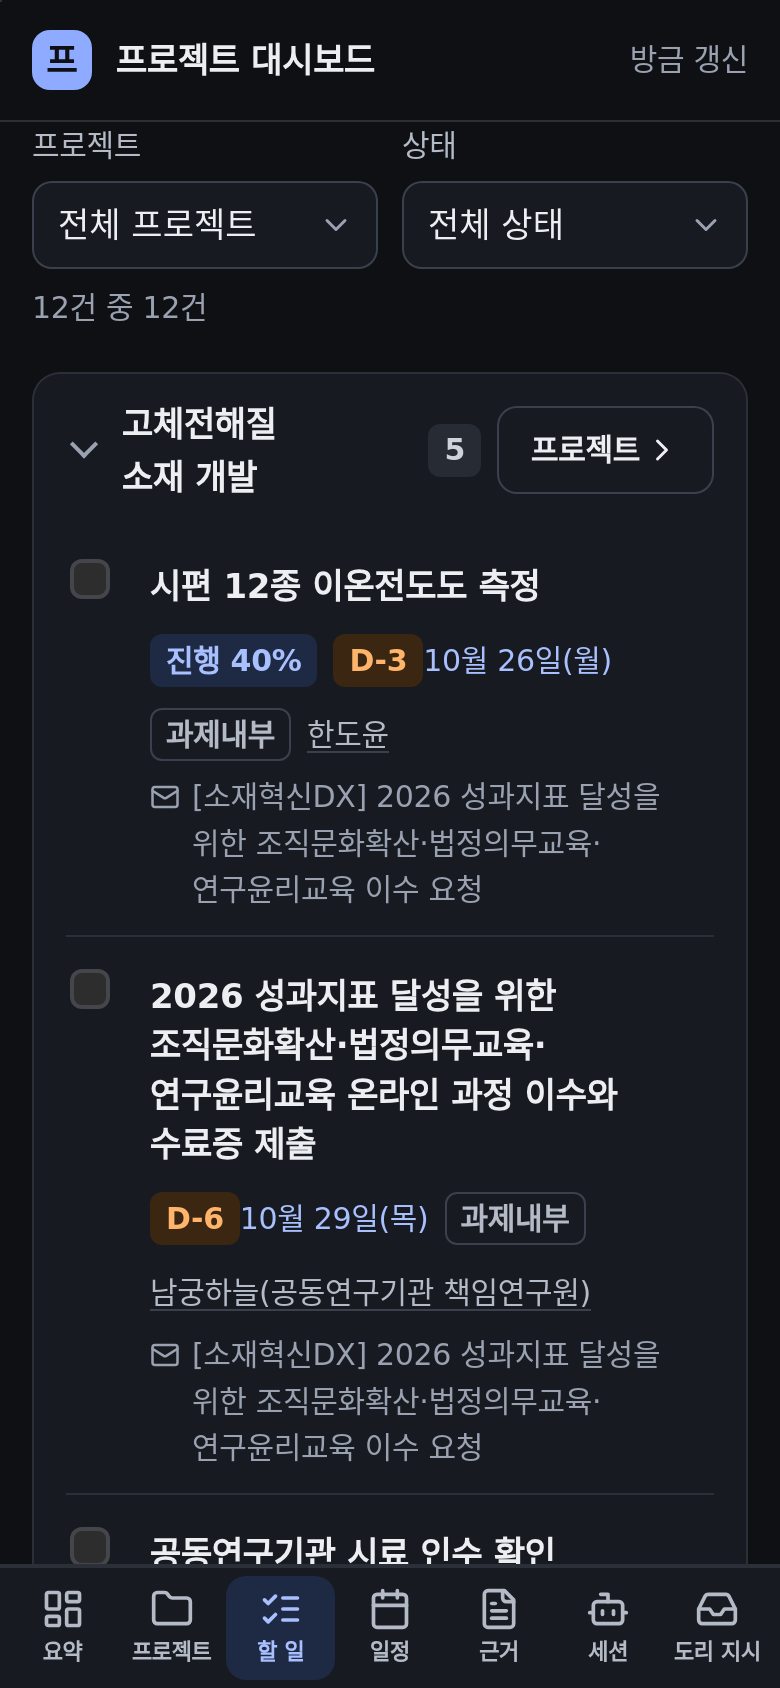
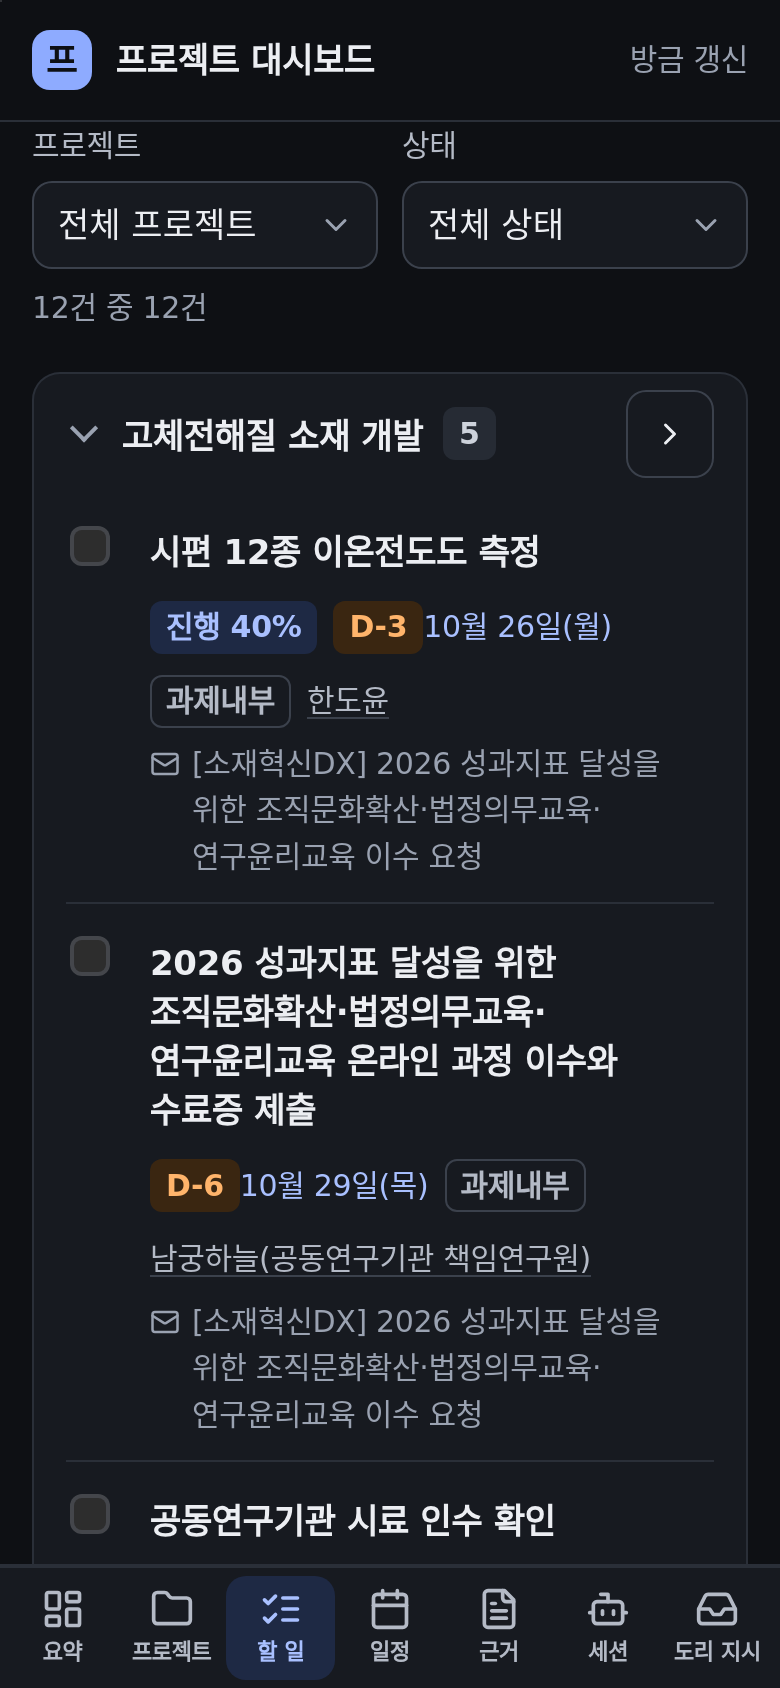
fix(project-board): a fold header keeps its count badge right after the title on a phone - the header title is plain text, so the badge follows its last word instead of floating beside the button when the title wraps; the summary box is named 도리 지시 like the tab it opens and fits one line at 390; a t

diff --git a/automation/project_board/dashboard.py b/automation/project_board/dashboard.py
@@ -478,6 +478,7 @@ _SEVEN_CSS: Final = (
     ".st-pick{display:flex;align-items:center;gap:var(--s2);margin-top:var(--s1);font-size:var(--t-sm);color:var(--text-3)}"
     ".st-pick .find{width:7.5em;flex:none}.agenda li.done .ag-title{text-decoration:line-through;color:var(--text-3)}"
     ".fold-head>.fold-go{gap:2px;font-size:var(--t-sm)}"
+    "@media(max-width:640px){.fold-head>.fold-go{width:var(--hit);padding:0;justify-content:center}.fold-go .go-word{display:none}}"
 )
 LOCAL_ACTOR: Final = "노드 로컬 접속"
 
@@ -885,7 +886,7 @@ def _todos(snapshot: BoardSnapshot, mode: Mode, today: date) -> str:
         items = sorted(groups[project], key=_todo_order)
         # the whole header folds the group; the project screen is its own button at the end of the header
         go = (f'<a class="btn fold-go" href="{escape(project_href(project), quote=True)}" '
-              f'aria-label="{escape(project, quote=True)} 프로젝트 화면">프로젝트{icon("chevron-right")}</a>')
+              f'aria-label="{escape(project, quote=True)} 프로젝트 화면"><span class="go-word">프로젝트</span>{icon("chevron-right")}</a>')
         body = f'<ul class="todos">{"".join(_todo_item(t, mode, today) for t in items)}</ul>'
         block = fold(f"t:{project}", escape(project), len(items), body, cls="todo-group", trail=go)
         blocks.append(block.replace("<details ", f'<details data-project="{escape(project, quote=True)}" ', 1))

diff --git a/automation/project_board/dashboard_theme.py b/automation/project_board/dashboard_theme.py
@@ -226,7 +226,8 @@ details.fold>summary::-webkit-details-marker{display:none}
 details.fold>summary::before{content:"";width:8px;height:8px;margin:0 6px 0 4px;border-right:2px solid var(--text-3);
 border-bottom:2px solid var(--text-3);transform:rotate(45deg) translate(-2px,-2px);transition:transform .15s var(--ease);flex:none}
 details.fold:not([open])>summary::before{transform:rotate(-45deg)}
-details.fold>summary h3{margin:0;display:flex;gap:var(--s2);align-items:center;font-size:var(--t-lg)}
+details.fold>summary h3{margin:0;display:block;font-size:var(--t-lg);line-height:1.35;word-break:keep-all;overflow-wrap:anywhere}
+details.fold>summary h3 .cnt{vertical-align:2px;margin-left:var(--s1)}
 @media (hover:hover){details.fold>summary:hover{background:var(--surface-2)}}
 details.fold>summary:active{background:var(--neutral-wash)}
 details.card.fold>summary,details.callout.fold>summary{margin:0 calc(-1 * var(--s2));padding:0 var(--s2)}

diff --git a/automation/project_board/orders_view.py b/automation/project_board/orders_view.py
@@ -231,7 +231,8 @@ def summary_box(orders: Sequence[Order], snapshot: BoardSnapshot) -> str:
     if not real:
         body = '<p class="small muted order-none">「지시 쓰기」로 맡긴 일이 여기에 쌓이고, 누가 맡아 어디까지 했는지 보입니다.</p>'
     write = '<a class="btn primary" href="#orders">지시 쓰기</a>'
-    box = fold("orders-box", "도리에게 지시", len(open_), body, cls="agenda", glyph="inbox", sub=line, trail=write)
+    # the bottom tab's own name, so the summary box and the tab it opens read the same and fit one line on a phone
+    box = fold("orders-box", "도리 지시", len(open_), body, cls="agenda", glyph="inbox", sub=line, trail=write)
     return f'<section id="order-box" data-tab="summary">{box}</section>'
 
 

diff --git a/docs/guide/프로젝트-대시보드.md b/docs/guide/프로젝트-대시보드.md
@@ -224,7 +224,7 @@ MailOn 런타임의 `data/` 는 배포본에서 공유 상태 디렉터리(`mail
 새로고침해도 같다(폰 사파리 포함, 2026-10-23 소유자 Q360 뒤 재점검). 자리는 탭(브라우저 세션) 안에서만 `sessionStorage` 의 `pb-seen` 에
 화면별로 남고, 하단 탭을 누르면 그 탭을 떠난 자리로, 이미 연 탭을 다시 누르면 맨 위로 간다. 프로젝트 화면의 돌아가기도 할 일 화면처럼
 연 화면(예: 일정)의 이름을 달고 그 자리로 돌아간다. 할 일 탭의 프로젝트 묶음은 머리 어디를 눌러도 접히고, 프로젝트 화면으로는 머리 끝의
-「프로젝트」 버튼으로 간다. 메일 첨부용 파일에도 할 일·사람
+「프로젝트」 버튼으로 간다(폰 폭에서는 꺾쇠만 남은 44px 버튼). 묶음 머리의 개수 배지는 제목 마지막 줄 바로 뒤에 붙는다. 메일 첨부용 파일에도 할 일·사람
 화면은 있지만 원문 링크와 상태 버튼은 없다. 세션 탭은 맨 위 「먼저 볼 것」(멈춘·대기 레인, 마지막 실행이 실패한 예약 작업)이 그 묶음을 펼쳐 열고, 세 요약 카드(작업 레인·에이전트 세션·감시·서비스)가 각 갈래로 간다. 레인 하나하나는 세션 집계가 주소·id 를 싣지 않으므로(개인정보 원칙) 더 이어지지 않는다.
 
 **저절로 최신**(2026-10-16 소유자 결정 Q192 "화면을 보고 있을 때 2분마다 새 데이터만 조용히 받아서 바꾸기(스크롤·펼친 상태
@@ -346,7 +346,7 @@ PRAGMA user_version = 2;
 ## 도리에게 지시 (2026-10-21 소유자 지시)
 
 소유자가 대시보드에서 도리에게 일을 맡기는 칸이다. 하단 일곱 번째 탭 「도리 지시」(2026-10-23 소유자 Q360: 누를 것이 없던 장부 탭을
-없애고 그 자리에 둠, 라이브 화면에만 — 파일 사본은 탭 여섯 개)와 요약의 「도리에게 지시」 상자가 `#orders` 를 연다(지시 칸·진행 중인 지시·끝난
+없애고 그 자리에 둠, 라이브 화면에만 — 파일 사본은 탭 여섯 개)와 요약의 「도리 지시」 상자(탭 이름과 같다, 폰에서 한 줄)가 `#orders` 를 연다(지시 칸·진행 중인 지시·끝난
 지시, 진행 중인 지시가 없으면 끝난 지시를 펼쳐 둔다), 지시 하나는 `#order/<번호>`(지시 내용, 받음→넘김→처리 중→끝 단계 — 지난
 단계는 ✓, 받는 도리와 전달 시각, 맡은 도리, 도리 방 글, 관련 할 일·프로젝트 링크, 메모, 기록). 요약 상자는 폰에서 짧게(2026-10-22
 소유자 "안 고쳐졌는데? 도리에게 지시 탭이 부자연스러워"): 진행 중인 지시(세 건까지)와 그 아래 「최근 결과」 한 건 — 가장 최근에

diff --git a/docs/기능소개/프로젝트-대시보드-탭-정리.md b/docs/기능소개/프로젝트-대시보드-탭-정리.md
@@ -23,9 +23,9 @@
 - 일정 탭의 한 줄 아래 「상태」 칸을 누르면 열림·진행·완료 세 줄이 키보드 없이 뜬다. 「진행」을 고르면 그 줄이 바로 바뀌고 「진행으로
   바꿨습니다」가 읽힌다. 「완료」를 고르면 줄에 줄이 그어지고, 화면이 새로 받아지면 일정에서 빠진다(할 일 탭에는 남는다). 저장은 할 일 화면의 상태 버튼과 같은 길(`POST /todo/<id>`)이다. 연결이 끊기거나 권한이 없으면 칸이 원래 값으로
   돌아가고 그 줄 아래에 이유가 나온다.
-- 하단 「도리 지시」 탭에서 지시를 쓰고 진행·결과를 본다. 요약의 지시 상자에서 「지시 탭에서 전부 보기」로 와도 같은 탭이 켜진다.
+- 하단 「도리 지시」 탭에서 지시를 쓰고 진행·결과를 본다. 요약의 지시 상자(이름도 「도리 지시」)의 「지시 쓰기」·「지시 탭에서 전부 보기」로 와도 같은 탭이 켜지고 쓰기 칸이 화면에 보인다.
   할 일 화면의 「이 할 일로 도리에게 지시」로 열면 위에 그 할 일로 돌아가는 링크가 생긴다.
-- 할 일 탭 프로젝트 묶음의 이름을 누르면 접힌다. 프로젝트 화면으로는 머리 끝의 「프로젝트」 버튼으로 간다.
+- 할 일 탭 프로젝트 묶음의 이름을 누르면 접힌다. 프로젝트 화면으로는 머리 끝의 「프로젝트」 버튼(폰에서는 꺾쇠 버튼)으로 간다.
 
 ## 전과 후 (데모 보드, 폰 390·어두운 모드)
 
